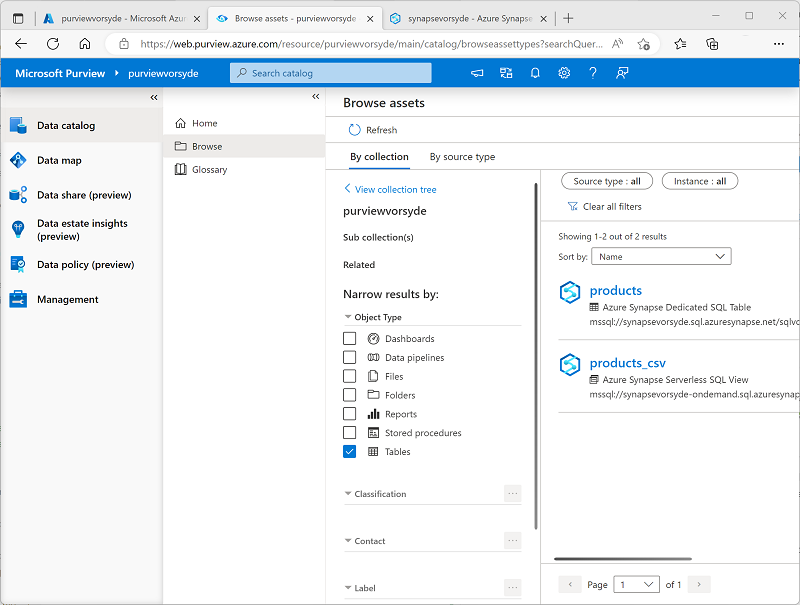
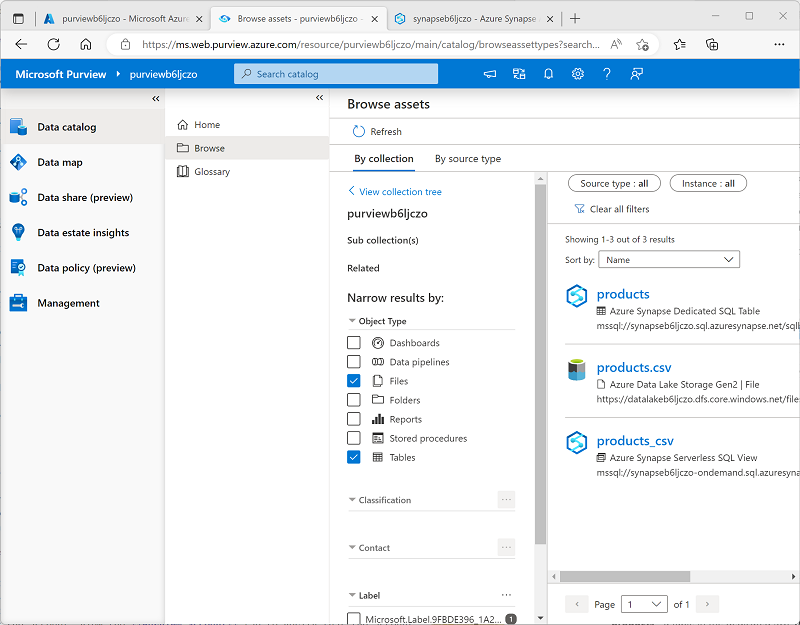
Added data lake and fix for SQL script

diff --git a/Instructions/Labs/10-Synapse-purview.md b/Instructions/Labs/10-Synapse-purview.md
@@ -8,7 +8,7 @@ lab:
 
 Microsoft Purview enables you to catalog data assets across your data estate and track the flow of data as it is transferred from one data source to another - a key element of a comprehensive data governance solution.
 
-This lab will take approximately **35** minutes to complete.
+This lab will take approximately **40** minutes to complete.
 
 ## Before you start
 
@@ -125,9 +125,9 @@ Your Azure Synapse Analytics workspace includes databases in both *serverless* a
     GO
     ```
 
-### Add Azure Synapse Analytics assets to the Microsoft Purview catalog
+### Register sources in the Microsoft Purview catalog
 
-Now that you've configured the required access for Microsoft Purview to scan the data sources in your Azure Synapse Analytics workspace, you can add the workspace to your Microsoft Purview catalog.
+Now that you've configured the required access for Microsoft Purview to scan the data sources used by your Azure Synapse Analytics workspace, you can register them in your Microsoft Purview catalog.
 
 1. Switch back to the browser tab containing the Azure portal, and view the page for the **dp000-*xxxxxxx*** resource group.
 2. Open the **purview*xxxxxxx*** Microsoft Purview account, and on its **Overview** page, use the link to open the **Microsoft Purview Governance Portal** ina  new browser tab - signing in if prompted.
@@ -146,12 +146,25 @@ Now that you've configured the required access for Microsoft Purview to scan the
     - **Dedicated SQL endpoint**: sql*xxxxxxx*.sql.azuresynapse.net
     - **Serverless SQL endpoint**: sql*xxxxxxx*-ondemand.sql.azuresynapse.net
     - **Select a collection**: Root (purview*xxxxxxx*)
-6. After registering the **Synapse_data** source, observe that it is displayed in the data map under the **purview*xxxxxxx*** root collection as shown here:
+
+    This data source includes the SQL databases in your Azure Synapse Analytics workspace.
+
+6. After registering the **Synapse_data** source, select **Register** again, and register a second source for the data lake storage used by your Azure Synapse workspace. Select **Azure Data Lake Storage Gen2**, and specify the following settings:
+    - **Name**: Data_lake
+    - **Azure subscription**: *Select your Azure subscription*
+    - **Workspace name**: *Select your **datalakexxxxxxx** storage account*
+    - **Endpoint**: https:/ /datalakexxxxxxx.dfs.core.windows.net/
+    - **Select a collection**: Root (purview*xxxxxxx*)
+    - **Data use management**: Disabled
+
+    After registering both the **Synapse_daya** and **Data_lake** sources, they should both be displayed under the **purview*xxxxxxx*** root collection in the data map as shown here:
 
     ![A screenshot of the data map, showing the Synapse_data source.](./images//purview-data-map.png)
 
-7. In the data map, in the **Synapse_data** source, select **View details**; and observe that the source has no assets cataloged. You will need to scan the source to find the data assets it contains.
-8. In the **Synapse_data** details page, select **New scan**, and then configure a scan with the following settings:
+### Scan registered sources
+
+1. In the data map, in the **Synapse_data** source, select **View details**; and observe that the source has no assets cataloged. You will need to scan the source to find the data assets it contains.
+2. In the **Synapse_data** details page, select **New scan**, and then configure a scan with the following settings:
     - **Name**: Scan-Synapse
     - **Connect to integration runtime**: Azure AutoresolveIntegrationRuntime
     - **Type**: SQL Database
@@ -161,24 +174,36 @@ Now that you've configured the required access for Microsoft Purview to scan the
 
     ![A screenshot of the New scan pane.](./images/purview-scan.png)
 
-9. Continue to the **Select a scan rule set** page, on which the default **AzureSynapseSQL** rule set should be selected.
-10. Continue to the **set a scan trigger** page, and select **Once** to run the scan one-time.
-11. Continue to the **Review your scan** page, and then save and run the scan.
-12. In the **Synapse_data** details page, observe the **Last run status** of the **Scan-Synapse** scan as it runs. The page will refresh periodically, and you can use the **&#8635; Refresh** button to force a refresh. The scan will take a few minutes to complete, and then show the count of assets discovered and automatically classified:
+3. Continue to the **Select a scan rule set** page, on which the default **AzureSynapseSQL** rule set should be selected.
+4. Continue to the **Set a scan trigger** page, and select **Once** to run the scan one-time.
+4. Continue to the **Review your scan** page, and then save and run the scan.
+6. While the **Synapse_data** scan is running, return to the **Sources** page to view the data map, and in the **Data_lake** source use the **New scan** icon to start a scan of the data lake with the following settings:
+    - **Name**: Scan-Data-Lake
+    - **Connect to integration runtime**: Azure AutoresolveIntegrationRuntime
+    - **Credential**: Microsoft Purview MSI (system)
+    - **Select a collection**: Root (purview*xxxxxxx*)
+    - **Scope your scan**: *Select **Data_lake** and all sub-assets* 
+    - **Select a scan rule set**:  AdlsGen2
+    - **Set a scan trigger**: Once
+    - **Review your scan** Save and run
+7. Wait for both scans to complete - this may take several minutes. You can view the details page for each of the sources to see the **Last run status**, as shown below (you can use the **&#8635; Refresh** button to update the status). You can also view the **Monitoring** page (though it may take some time for the scans to appear there):
 
     ![A screenshot of the Synapse_data details with a completed scan.](./images/purview-scan-complete.png)
 
-13. On the **Data catalog** page, on the **Browse** sub-page, select the **purview*xxxxxxx*** collection. Here you can see the data assets that were cataloged in your Azure Synapse Workspace, including the workspace itself, the two databases, the **dbo** schema in each database, and the tables and views in the databases.
-14. To filter the results, in the **Narrow results by** list of object types, select **Tables** so that only the tables and views that were cataloged by the scan are listed:
+### View the scanned assets
 
-    ![A screenshot of the Data catalog filtered to show only tables.](./images/purview-collection.png)
+1. On the **Data catalog** page, on the **Browse** sub-page, select the **purview*xxxxxxx*** collection. Here you can see the data assets that were cataloged in your Azure Synapse Workspace and data lake storage, including the Azure Synapse Analytics workspace, the Azure Storage account for the data lake, the two SQL pool databases in Azure Synapse Analytics, the **dbo** schema in each database, the tables and views in the databases, and the folders and files in the data lake.
+2. To filter the results, in the **Narrow results by** list of object types, select **Files** and **Tables** so that only the files, tables, and views that were cataloged by the scan are listed:
 
-    Note that the tables include:
+    ![A screenshot of the Data catalog filtered to show only files and tables.](./images/purview-collection.png)
+
+    Note that the data assets include:
 
     - **products** - a table in the dedicated SQL pool for product data.
-    - **products_csv** - a view in the serverless SQL pool that reads product data from a CSV file in the data lake.
+    - **products.csv** - a file in the data lake.
+    - **products_csv** - a view in the serverless SQL pool that reads product data from the *products.csv* file.
 
-15. Explore the tables that were found by selecting them and viewing their schema. You can find a lot of information about the data assets in your data estate by exploring them in the Microsoft Purview data catalog.
+3. Explore the assets that were found by selecting them and viewing their properties and schema. You can edit the properties of thr assets (including individual fields) to add metadata, categorizations, contact details for subject-matter experts, and other useful details so that data analysts can find a lot of information about the data assets in your data estate by exploring them in the Microsoft Purview data catalog.
 
 So far, you've used Microsoft Purview to catalog data assets in your Azure Synapse Analytics workspace. You can register multiple kinds of data source in a Microsoft Purview catalog, enabling you to create a central, consolidated view of data assets.
 
@@ -204,7 +229,7 @@ Now that you've connected your Microsoft Purview account to your Azure Synapse A
 
     ![Screenshot of the search box in Synapse Studio searching Purview.](./images/synapse-search-purview.png)
 
-3. In the results, select **products_csv** to view its details from the Purview catalog.
+3. In the results, select **products.csv** to view its details from the Purview catalog.
 
 By integrating the Purview catalog into the Synapse Studio interface, data analysts and engineers can find and examine registered data assets from across the entire data estate (not just within the Azure Synapse Studio workspace).
 
